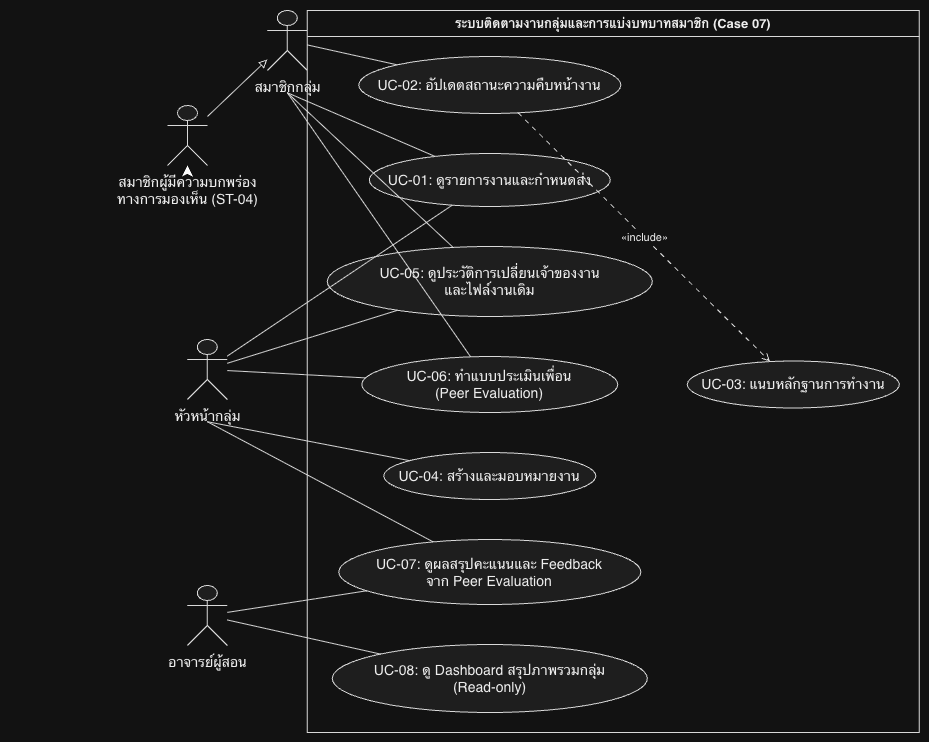
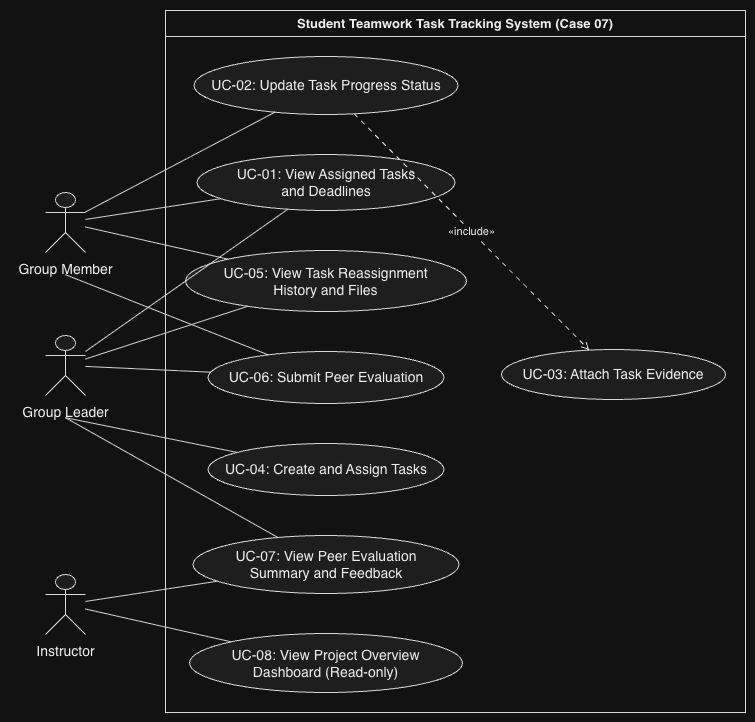
UP

diff --git a/docs/06-requirement-models.md b/docs/06-requirement-models.md
@@ -8,7 +8,7 @@
 
 | ID | Actor (บทบาท) | User Story (As a... I want... so that...) | Priority | Linked Trace / FR | Acceptance Criteria Ref |
 | :---: | :---| :---| :---: | :---| :---: |
-| **US-01** | สมาชิกกลุ่ม | **ในฐานะ** สมาชิกกลุ่ม<br>**ฉันต้องการ** หน้าต่างแสดงรายการงานและกำหนดส่งของตนเองทั้งหมดในที่เดียว<br>**เพื่อ** ทราบหน้าที่ชัดเจนและไม่พลาดกำหนดส่งโดยไม่ต้องค้นหาในแชต | Must | `docs/05`: FR-01<br>`docs/04`: E-01 | AC-01 |
+| **US-01** | สมาชิกกลุ่ม, หัวหน้ากลุ่ม | **ในฐานะ** สมาชิกกลุ่ม (และหัวหน้ากลุ่ม)<br>**ฉันต้องการ** หน้าต่างแสดงรายการงานและกำหนดส่งของตนเองทั้งหมดในที่เดียว<br>**เพื่อ** ทราบหน้าที่ชัดเจนและไม่พลาดกำหนดส่งโดยไม่ต้องค้นหาในแชต | Must | `docs/05`: FR-01<br>`docs/04`: E-01 | AC-01 |
 | **US-02** | หัวหน้ากลุ่ม | **ในฐานะ** หัวหน้ากลุ่ม<br>**ฉันต้องการ** สร้างงานใหม่ มอบหมายผู้รับผิดชอบ และกำหนดวันส่งงาน<br>**เพื่อ** กระจายภาระงานอย่างชัดเจนและควบคุมเวลาการทำงานได้ทันส่ง | Must | `docs/05`: FR-02<br>`docs/04`: E-01 | AC-02 |
 | **US-03** | สมาชิกกลุ่ม | **ในฐานะ** สมาชิกกลุ่ม<br>**ฉันต้องการ** อัปเดตและเห็นสถานะความคืบหน้าของงาน (To-do / Doing / Done) ได้แบบเรียลไทม์<br>**เพื่อ** ให้ทุกคนในทีมรับรู้สถานะตรงกันโดยไม่ต้องคอยถามซ้ำในแชต | Must | `docs/05`: FR-03, BR-02<br>`docs/04`: E-01 | AC-03 |
 | **US-04** | สมาชิกกลุ่ม | **ในฐานะ** สมาชิกกลุ่ม<br>**ฉันต้องการ** แนบไฟล์ ลิงก์ภายนอก หรือข้อความหลักฐานเมื่อเปลี่ยนสถานะงานเป็น Done<br>**เพื่อ** ยืนยันความสำเร็จของงานด้วยหลักฐานจริงและลดข้อขัดแย้งตอนประเมินผล | Must | `docs/05`: FR-04, BR-01<br>`docs/04`: E-02, E-06 | AC-04 |
@@ -16,9 +16,6 @@
 | **US-06** | อาจารย์ผู้สอน | **ในฐานะ** อาจารย์ผู้สอน<br>**ฉันต้องการ** ดู Dashboard สรุปภาพรวมสัดส่วนงานที่เสร็จและงานค้างของแต่ละกลุ่มแบบอ่านอย่างเดียว<br>**เพื่อ** ใช้เป็นข้อมูลเชิงประจักษ์ประกอบการประเมินคะแนนโดยไม่รบกวนพื้นที่ทำงานของนักศึกษา | Must | `docs/05`: FR-06, FR-07, BR-03<br>`docs/04`: E-04, E-05, IS-02 | AC-06 |
 | **US-07** | สมาชิกกลุ่ม, หัวหน้ากลุ่ม | **ในฐานะ** สมาชิกผู้ประเมิน (เพื่อนร่วมทีมทุกคนรวมถึงหัวหน้ากลุ่ม)<br>**ฉันต้องการ** ทำแบบประเมิน Peer Evaluation ที่แสดงข้อมูลหลักฐานงานของเพื่อนควบคู่ไปด้วย<br>**เพื่อ** ให้สามารถประเมินเพื่อนได้อย่างเป็นธรรมโดยมีหลักฐานจริงอ้างอิง | Must | `docs/05`: FR-08, BR-04<br>`docs/04`: E-06 | AC-07 |
 | **US-08** | อาจารย์ผู้สอน, หัวหน้ากลุ่ม | **ในฐานะ** อาจารย์ผู้สอนและหัวหน้ากลุ่ม<br>**ฉันต้องการ** ดูผลสรุปคะแนนเฉลี่ยและ Feedback จากแบบประเมิน Peer Evaluation แบบอัตโนมัติ<br>**เพื่อ** นำผลลัพธ์ไปใช้ประกอบการสรุปเกรดและพัฒนาการทำงานร่วมกัน | Should | `docs/05`: FR-09<br>`docs/04`: E-04, E-06 | AC-08 |
-| **US-09** | สมาชิกผู้มีความบกพร่องทางการมองเห็น | **ในฐานะ** สมาชิกผู้มีความบกพร่องทางการมองเห็น<br>**ฉันต้องการ** สั่งงานผ่านคีย์บอร์ด 100% และรับฟังผลลัพธ์ผ่านโปรแกรมอ่านหน้าจอ (Screen Reader)<br>**เพื่อ** ให้สามารถติดตามงานและทำงานกลุ่มร่วมกับเพื่อนได้อย่างเท่าเทียม | Must | `midterm/twist.md`: R-1, R-2<br>`midterm`: E-Core-01, ST-04 | AC-09 |
-| **US-10** | สมาชิกกลุ่ม (ภาวะเน็ตหลุด) | **ในฐานะ** สมาชิกกลุ่มในภาวะเน็ตหลุดชั่วคราว<br>**ฉันต้องการ** เปิดดูรายการงานที่แคชไว้ในเครื่อง และบันทึกคำสั่งเปลี่ยนสถานะงานลงเครื่องได้<br>**เพื่อ** ไม่ให้ข้อมูลสูญหายและระบบจะส่งข้อมูลอัปเดตให้อัตโนมัติเมื่อต่อเน็ตติด | Must | `midterm/twist.md`: R-3, R-4<br>`midterm`: E-Core-02, ST-01 | AC-10 |
-
 ---
 
 ## 2. Acceptance Criteria
@@ -120,13 +117,11 @@
 | **UC-01** | ดูรายการงานและกำหนดส่ง | สมาชิกกลุ่ม, หัวหน้ากลุ่ม | FR-01 | Detailed / Core |
 | **UC-02** | อัปเดตสถานะความคืบหน้างาน | สมาชิกกลุ่ม | FR-03, BR-02 | Detailed / Core |
 | **UC-03** | แนบหลักฐานการทำงาน | สมาชิกกลุ่ม | FR-04, BR-01 | Detailed / Core |
-| **UC-04** | ดูประวัติการเปลี่ยนเจ้าของงานและไฟล์งานเดิม | สมาชิกกลุ่ม, หัวหน้ากลุ่ม | FR-05, BR-04, NFR-03, NFR-04 | Summary / Supporting |
-| **UC-05** | สร้างและมอบหมายงาน | หัวหน้ากลุ่ม | FR-02 | Detailed / Core |
+| **UC-04** | สร้างและมอบหมายงาน | หัวหน้ากลุ่ม | FR-02 | Detailed / Core |
+| **UC-05** | ดูประวัติการเปลี่ยนเจ้าของงานและไฟล์งานเดิม | สมาชิกกลุ่ม, หัวหน้ากลุ่ม | FR-05, BR-04, NFR-03, NFR-04 | Summary / Supporting |
 | **UC-06** | ทำแบบประเมินเพื่อน (Peer Evaluation) | สมาชิกกลุ่ม, หัวหน้ากลุ่ม | FR-08, BR-04 | Detailed / Core |
 | **UC-07** | ดูผลสรุปคะแนนและ Feedback จาก Peer Evaluation | อาจารย์ผู้สอน, หัวหน้ากลุ่ม | FR-09 | Summary / Partial |
 | **UC-08** | ดู Dashboard สรุปภาพรวมกลุ่ม (Read-only) | อาจารย์ผู้สอน | FR-06, FR-07, BR-03, NFR-02 | Detailed / Core |
-| **UC-09** | สั่งงานผ่าน Screen Reader และคีย์บอร์ด *(Twist)* | สมาชิกผู้มีความบกพร่องทางการมองเห็น | R-1, R-2 | Detailed / Extension |
-| **UC-10** | จัดการงานในโหมดออฟไลน์และซิงก์ข้อมูล *(Twist)* | สมาชิกกลุ่ม | R-3, R-4 | Summary / Supporting |
 ---
 
 ## 4. Workflow / Activity Overview
